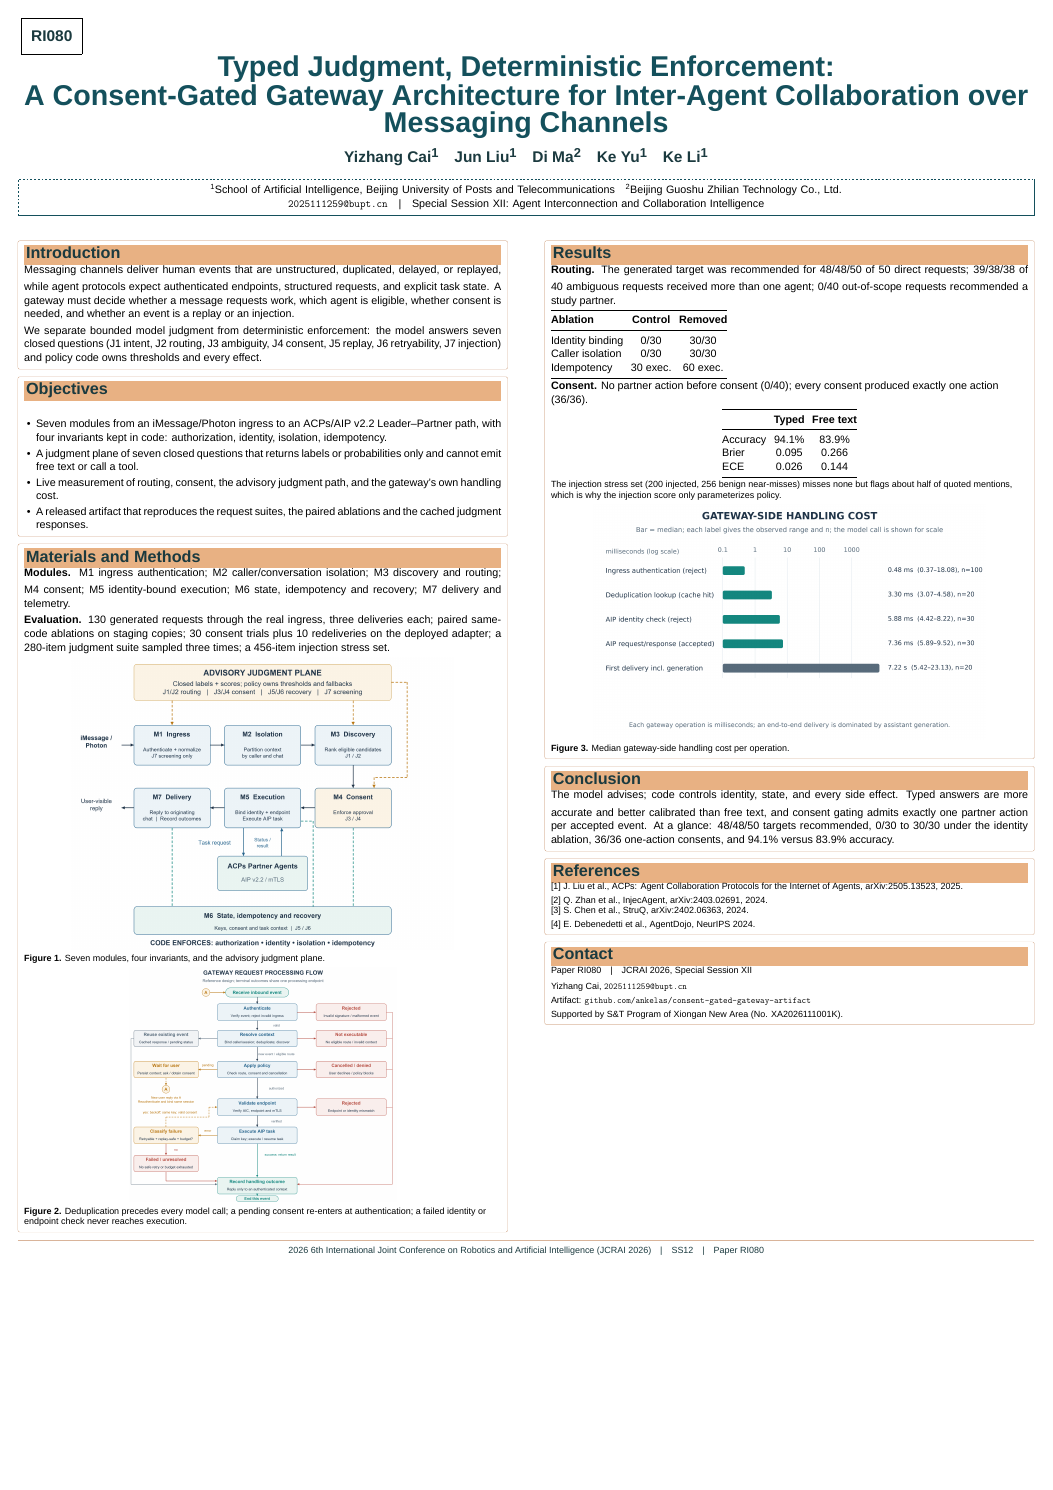
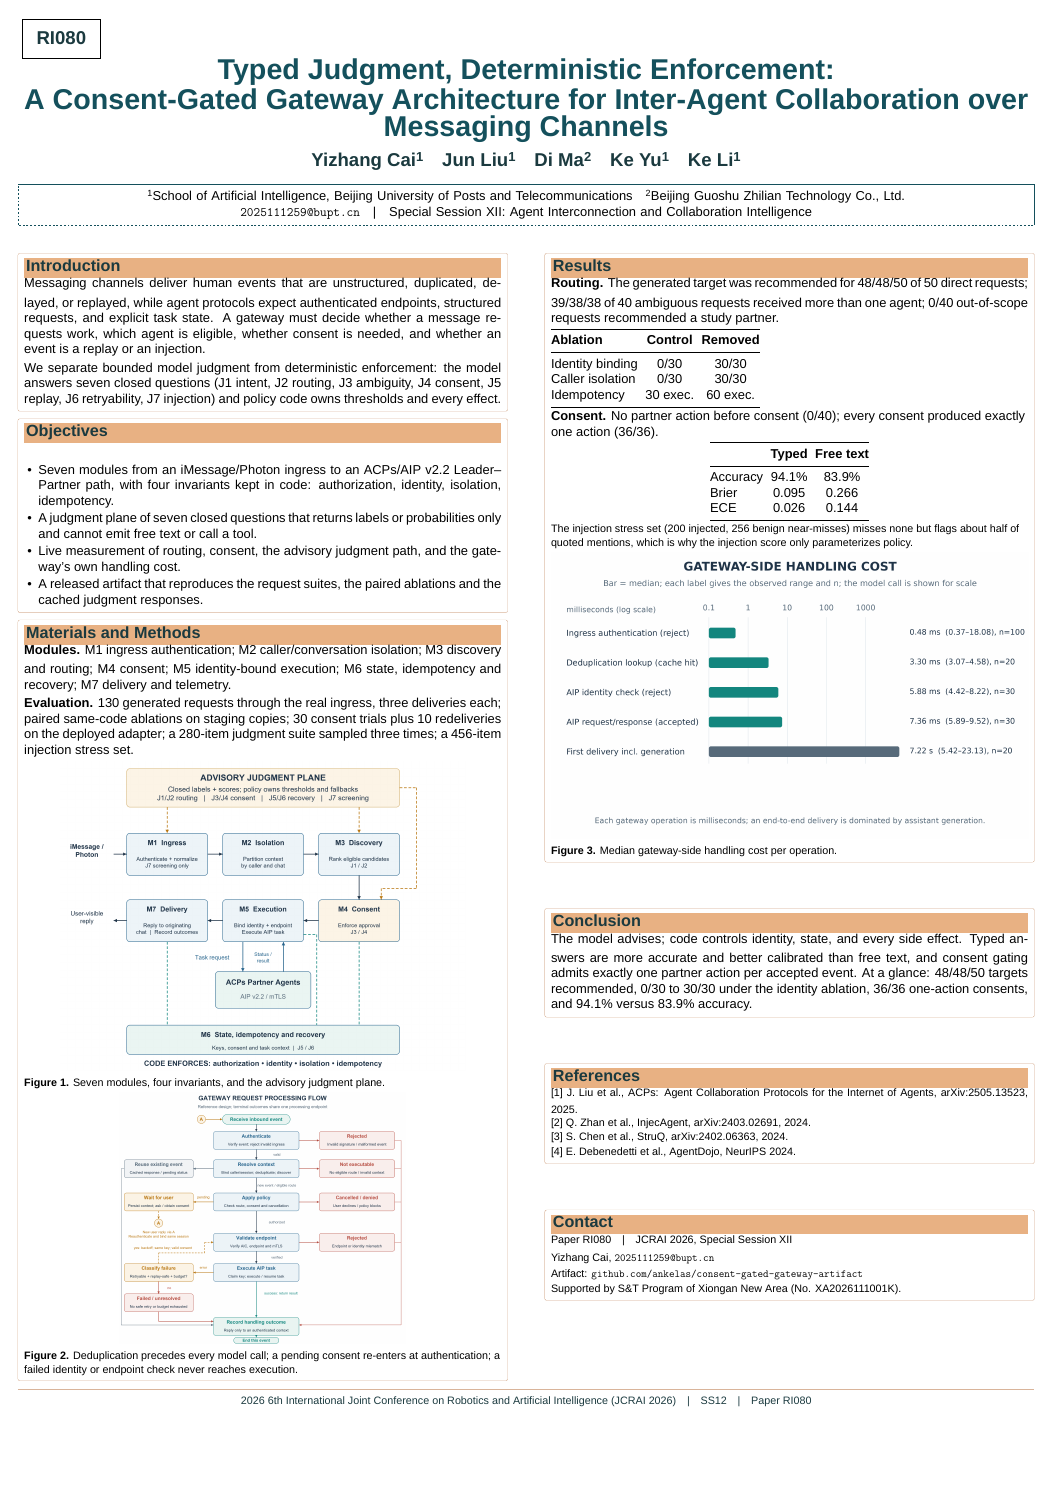
Balance the poster columns at 20pt and fix the RI080 box

diff --git a/paper/poster/jcrai_poster_RI080.tex b/paper/poster/jcrai_poster_RI080.tex
@@ -1,4 +1,4 @@
-\documentclass[17pt]{extarticle}
+\documentclass[20pt]{extarticle}
 \usepackage{fontspec}
 \setmainfont{LiberationSans}[
   Path=fonts/,
@@ -44,7 +44,7 @@
 % ---------------------------------------------------------------- header
 \begin{tikzpicture}[remember picture, overlay]
   \node[anchor=north west] at ([xshift=10mm,yshift=-8mm]current page.north west)
-    {\setlength{\fboxsep}{4mm}\fbox{\parbox[c][12mm][c]{26mm}{\centering\Large\bfseries\color{ink}RI080}}};
+    {\setlength{\fboxsep}{4mm}\fbox{\parbox[c][14mm][c]{36mm}{\centering\Large\bfseries\color{ink}RI080}}};
 \end{tikzpicture}
 
 \vspace*{2mm}
@@ -124,7 +124,7 @@ three times; a 456-item injection stress set.
 
 \vspace{2mm}
 \centering
-\includegraphics[width=0.80\linewidth]{../figures/fig1_architecture.png}
+\includegraphics[width=0.85\linewidth]{../figures/fig1_architecture.png}
 
 \vspace{1mm}
 \raggedright
@@ -133,7 +133,7 @@ judgment plane.
 
 \vspace{2mm}
 \centering
-\includegraphics[width=0.56\linewidth]{../figures/fig2_state_machine.png}
+\includegraphics[width=0.60\linewidth]{../figures/fig2_state_machine.png}
 
 \vspace{1mm}
 \raggedright
@@ -190,12 +190,14 @@ only parameterizes policy.
 
 \vspace{2mm}
 \centering
-\includegraphics[width=0.82\linewidth]{../figures/fig3_overhead.png}
+\includegraphics[width=1.0\linewidth]{../figures/fig3_overhead.png}
 
 \vspace{1mm}
 \raggedright
 \small\textbf{Figure 3.} Median gateway-side handling cost per operation.
 \end{block}
+
+\vspace{22mm}
 
 \begin{block}{}
 \sectionbar{Conclusion}
@@ -207,6 +209,8 @@ gating admits exactly one partner action per accepted event. At a glance:
 one-action consents, and 94.1\% versus 83.9\% accuracy.
 \end{block}
 
+\vspace{22mm}
+
 \begin{block}{}
 \sectionbar{References}
 \vspace{1.5mm}
@@ -216,6 +220,8 @@ one-action consents, and 94.1\% versus 83.9\% accuracy.
 \mbox{[3]} S. Chen et al., StruQ, arXiv:2402.06363, 2024.\par
 \mbox{[4]} E. Debenedetti et al., AgentDojo, NeurIPS 2024.}
 \end{block}
+
+\vspace{22mm}
 
 \begin{block}{}
 \sectionbar{Contact}

diff --git a/paper/poster/README.md b/paper/poster/README.md
@@ -47,3 +47,10 @@ Rebuild:
 xetex -fmt=xelatex jcrai_poster_RI080.tex
 xetex -fmt=xelatex jcrai_poster_RI080.tex
 ```
+
+## Layout notes
+
+Body text is 20pt (`extarticle`), the largest supported size that keeps the
+seven sections on one A1 page. Figures are sized to fill the columns so the two
+columns end together near the footer; the right column carries the gateway-cost
+figure at full column width.
